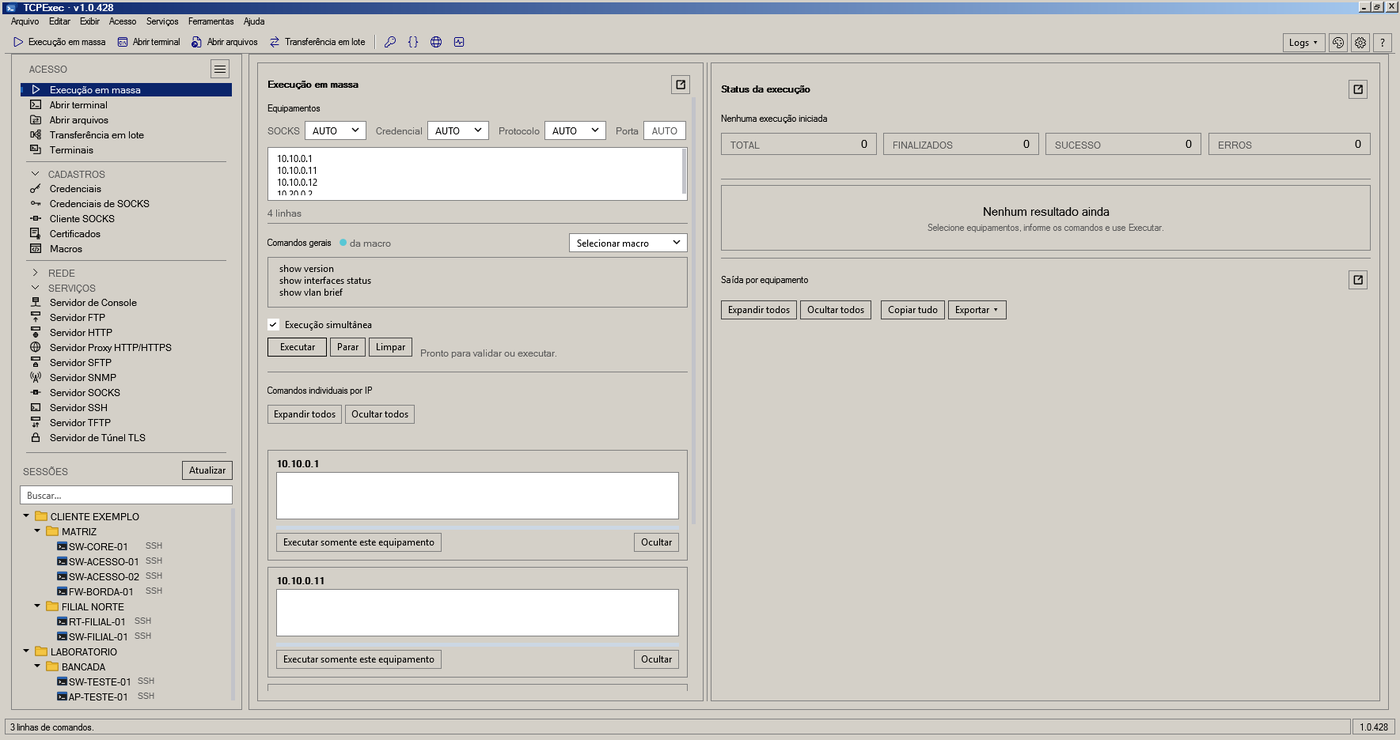
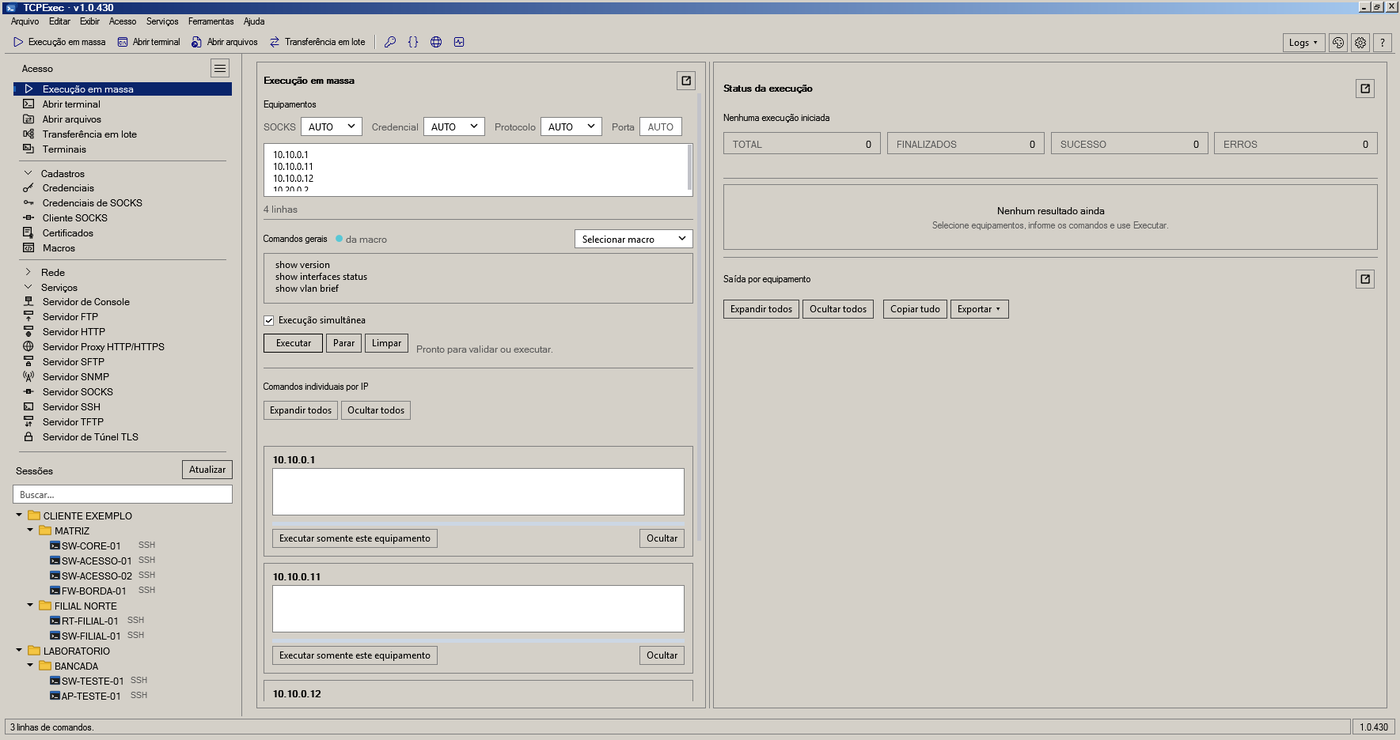
README e telas da 1.0.430 (Configurações em páginas, telas no padrão do Windows 7)

diff --git a/README.md b/README.md
@@ -1,7 +1,7 @@
 <p align="center"><img src="telas/banner.png" alt="TCPExec" width="100%"></p>
 
 <p align="center">
-<img src="https://img.shields.io/badge/vers%C3%A3o-1.0.429-blue"> <img src="https://img.shields.io/badge/Windows-10%20%7C%2011-0078D6"> <img src="https://img.shields.io/badge/.NET-11-512BD4">
+<img src="https://img.shields.io/badge/vers%C3%A3o-1.0.430-blue"> <img src="https://img.shields.io/badge/Windows-10%20%7C%2011-0078D6"> <img src="https://img.shields.io/badge/.NET-11-512BD4">
 </p>
 
 <p align="center"><b>A estação de trabalho do técnico de redes: acesse e mande comandos para um equipamento ou para centenas de uma vez.</b><br><i>The network technician's workstation: access and send commands to one device or hundreds at once.</i></p>
@@ -16,7 +16,7 @@ Para quem cuida de switches, roteadores, firewalls e servidores. O TCPExec guard
 | | |
 |---|---|
 | **Execução em massa** — os mesmos comandos em centenas de equipamentos, com o resultado de cada um.<br>*Mass execution — the same commands on hundreds of devices, with each result.* | ![](telas/principal.png) |
-| **Visual Windows 7 Basic ou Windows Clássico** — 10 cores de janela, claro ou escuro, trocados na hora.<br>*Windows 7 Basic or Windows Classic look — 10 window colors, light or dark, switched instantly.* | ![](telas/aparencia.png) |
+| **Visual Windows 7 Basic ou Windows Clássico** — 10 cores, claro ou escuro, e Configurações em páginas.<br>*Windows 7 Basic or Windows Classic look — 10 colors, light or dark, and Settings in pages.* | ![](telas/aparencia.png) |
 | **Tudo à mão no botão direito** — conectar, abrir arquivos, monitorar e copiar a partir do equipamento.<br>*Everything on right-click — connect, open files, monitor and copy from the device.* | ![](telas/menu-equipamento.png) |
 
 ## Como funciona / How it works
@@ -36,7 +36,8 @@ Para quem cuida de switches, roteadores, firewalls e servidores. O TCPExec guard
 | | |
 |---|---|
 | ![](telas/principal.png)<br>Windows 7 Basic (Céu) / *Windows 7 Basic (Sky)* | ![](telas/classico.png)<br>Windows Clássico / *Windows Classic* |
-| ![](telas/escuro.png)<br>Modo escuro / *Dark mode* | ![](telas/configuracoes.png)<br>Configurações › Aparência em galeria / *Settings › Appearance gallery* |
+| ![](telas/escuro.png)<br>Modo escuro / *Dark mode* | ![](telas/configuracoes.png)<br>Configurações em páginas / *Settings in pages* |
+| ![](telas/abrir-arquivos.png)<br>Abrir arquivos / *Open files* | ![](telas/principal.png)<br>Execução em massa / *Mass execution* |
 | ![](telas/pergunta.png)<br>Pergunta no tema (cor Folha) / *Question in the theme (Leaf color)* | ![](telas/menu-equipamento.png)<br>Botão direito no equipamento / *Right-click on a device* |
 
 ## Baixar / Download
@@ -44,9 +45,9 @@ Para quem cuida de switches, roteadores, firewalls e servidores. O TCPExec guard
 
 Windows 10/11 x64 · .NET 11 Desktop Runtime
 
-## Novidades / What's new — v1.0.429
-- Telas que se ajustam à escala do Windows (125% ou mais). / *Screens adapt to the Windows scale (125% or more).*
-- Tamanho e Escala da interface sempre iguais. / *Size and Interface scale always match.*
-- No Windows Clássico, o título das janelas em branco. / *In Windows Classic, window titles are white again.*
+## Novidades / What's new — v1.0.430
+- Configurações com lista à esquerda e uma página por vez. / *Settings with a list on the left, one page at a time.*
+- Telas mais limpas, no padrão do Windows 7. / *Cleaner screens, in the Windows 7 style.*
+- Sessão encerrada: Enter reconecta, F fecha. / *Session ended: Enter reconnects, F closes.*
 
 <sub>Uso somente com autorização escrita do autor. / Use only with the author's written authorization.</sub>
